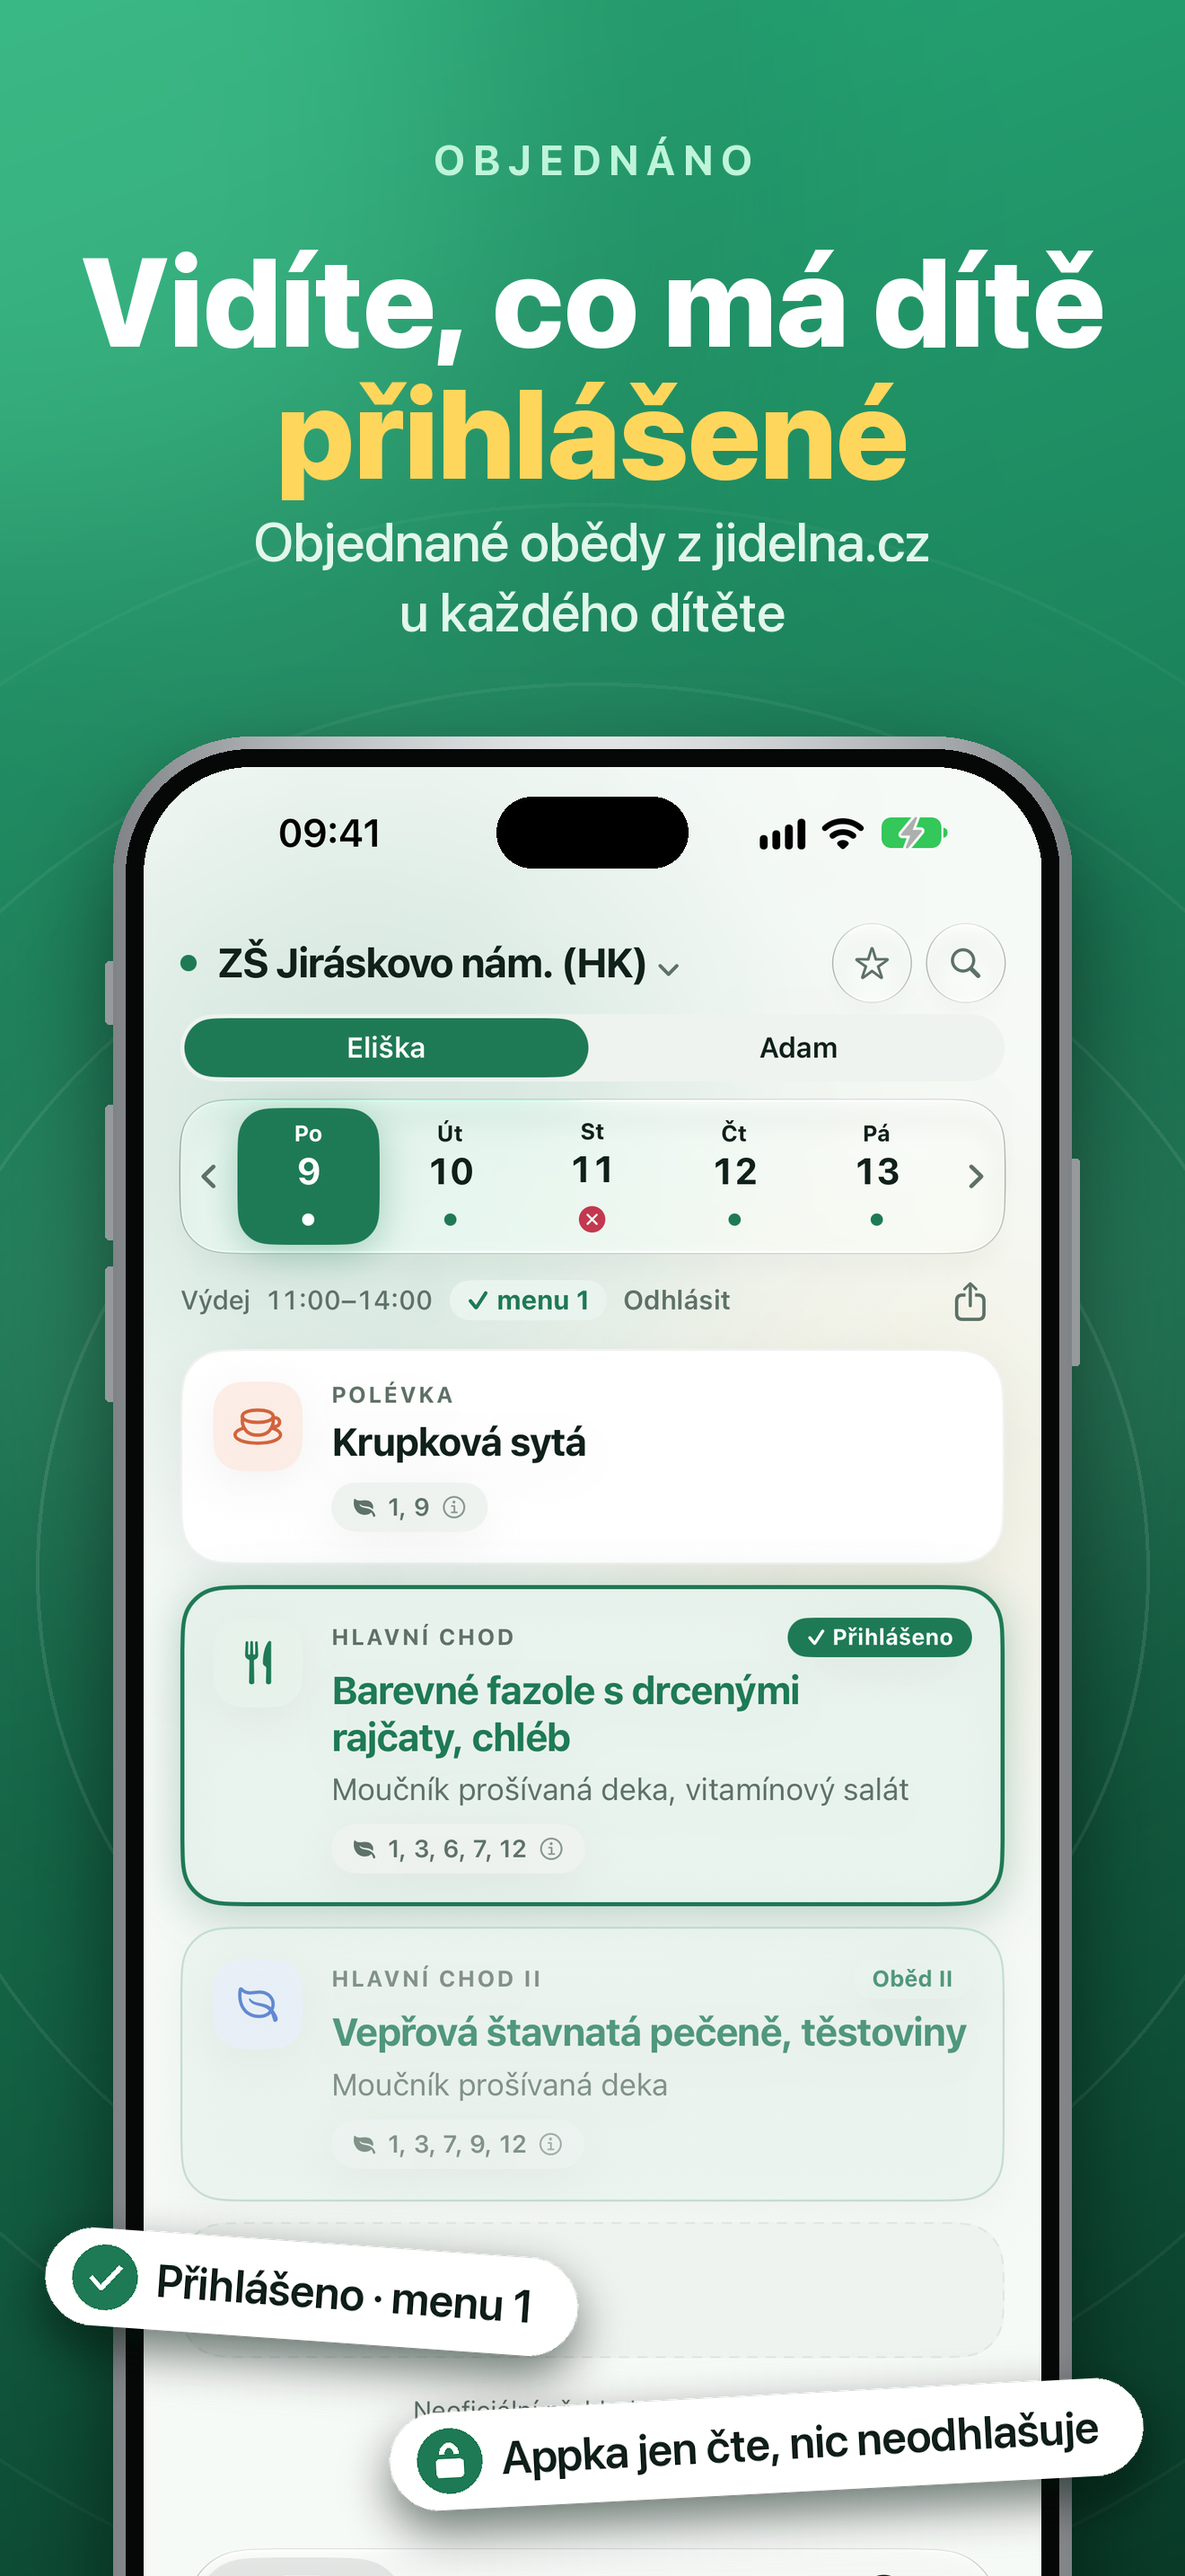
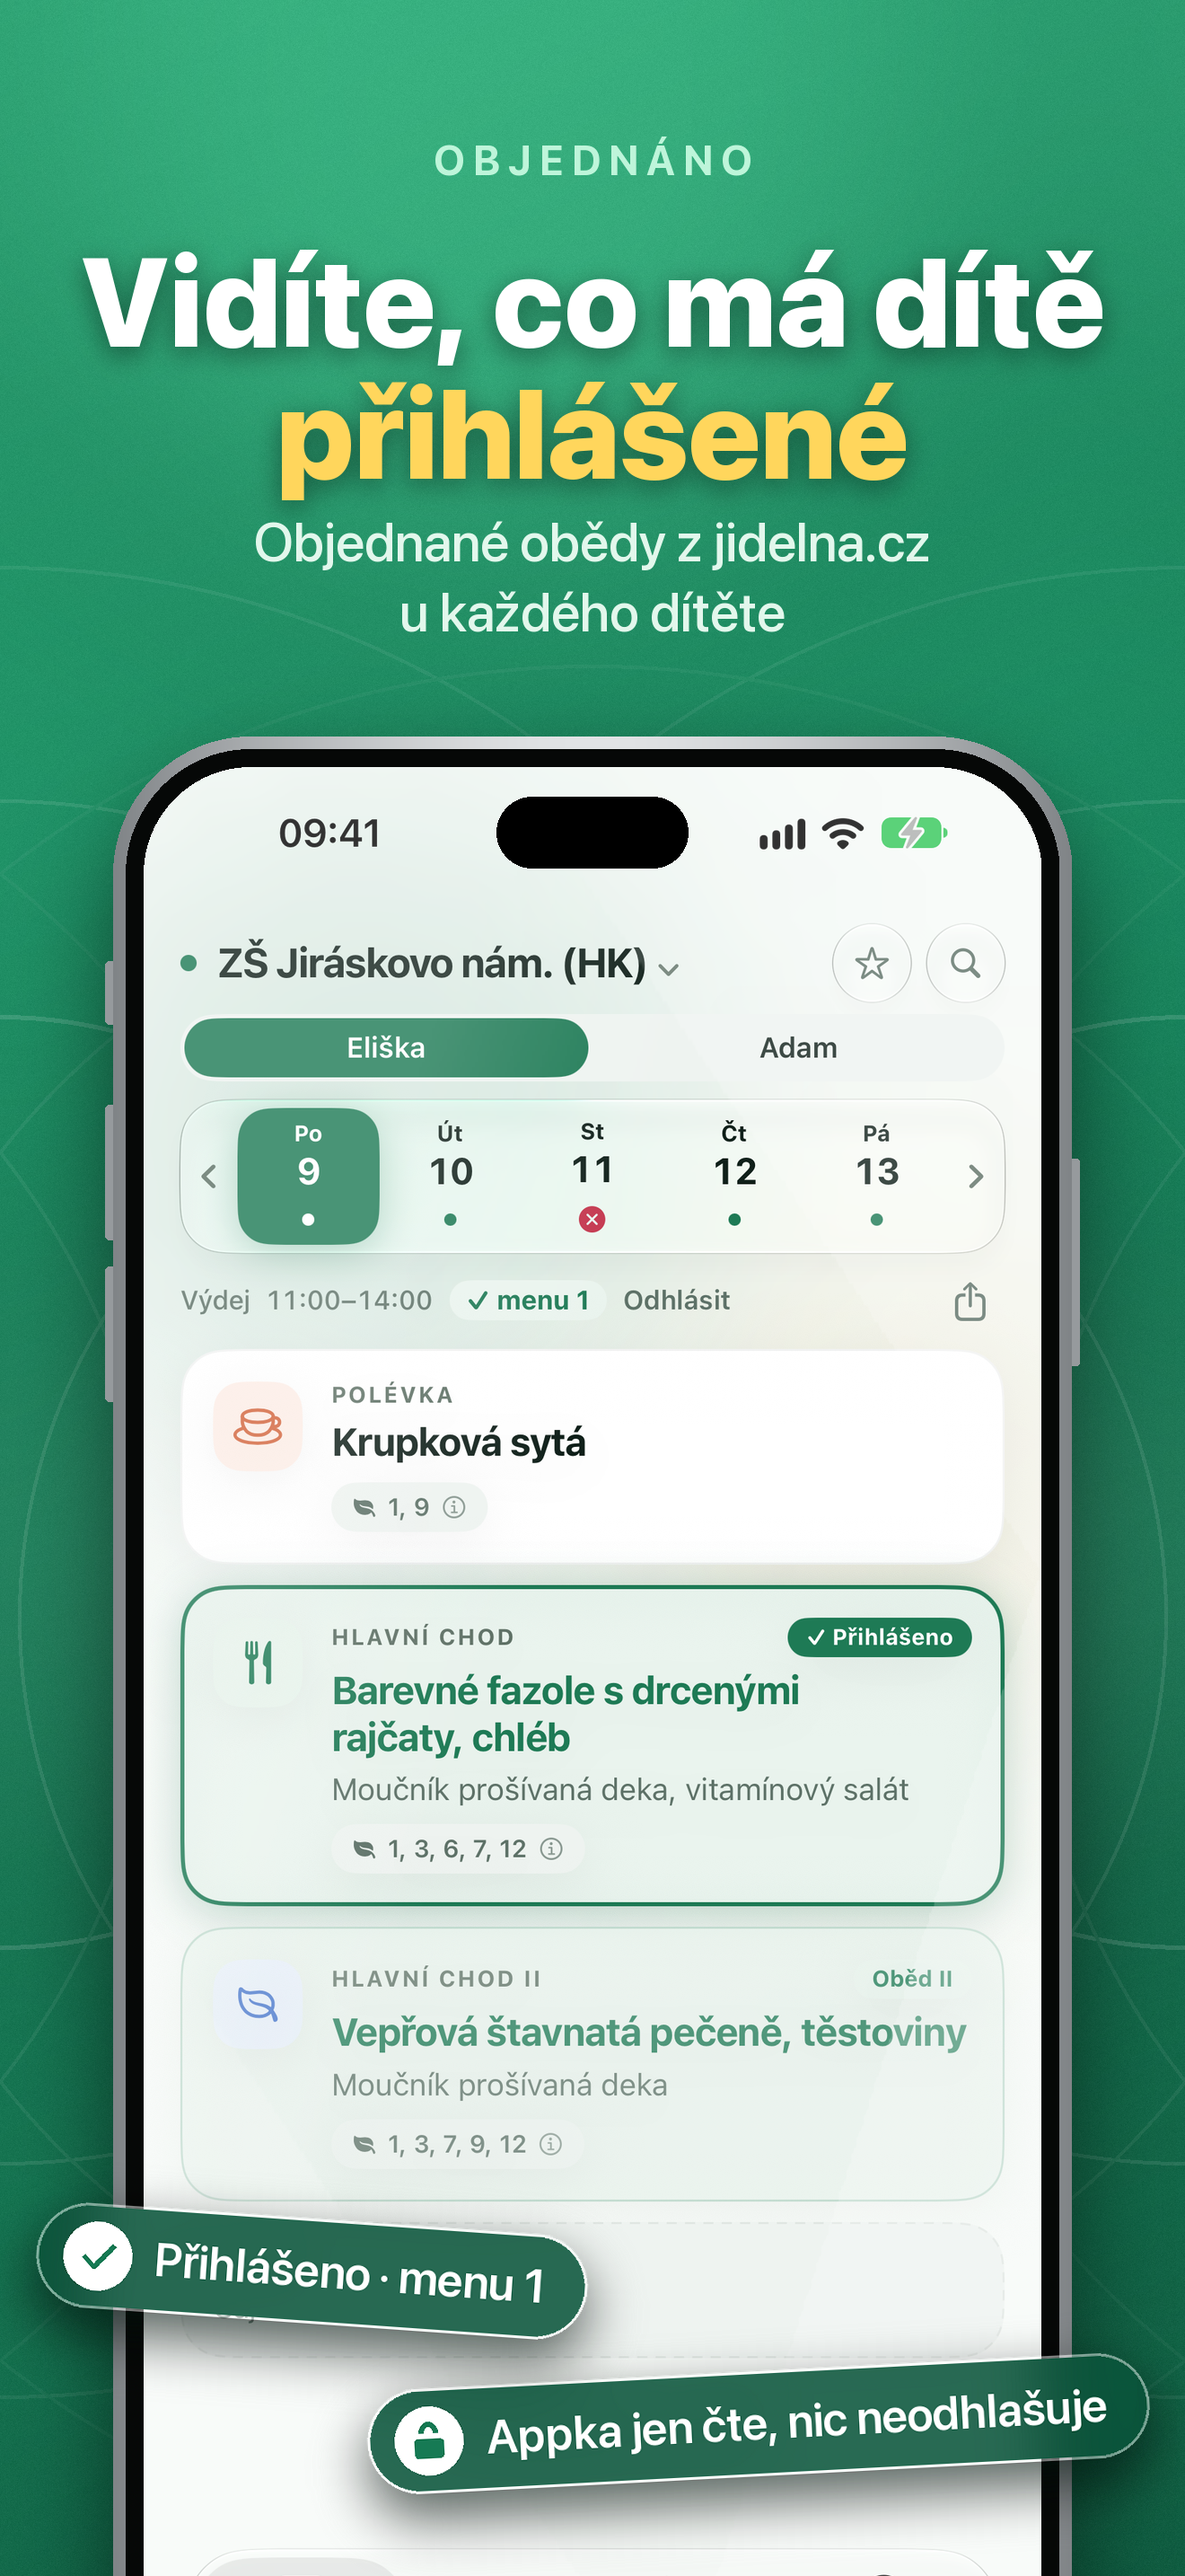
App Store screenshoty: souvislé panoramatické pozadí, skleněné bubliny, odlesk telefonu, stín nadpisu, zrno

diff --git a/tools/make-screenshots.py b/tools/make-screenshots.py
@@ -55,28 +55,54 @@ def rozmazat(im, boxy):
 
 # ── pozadí ─────────────────────────────────────────────────────────────
 
-def pozadi():
-    """Diagonální přechod + velká záře za telefonem + soustředné kruhy (odkaz na talíř z ikony)."""
+_PANO = None
+
+
+def panorama(n):
+    """Jedno souvislé pozadí přes všechny snímky: přechod, záře, kruhy přecházející z jednoho snímku do dalšího."""
     import numpy as np
-    a, b = np.array((38, 168, 118), float), np.array((9, 58, 40), float)
-    yy, xx = np.mgrid[0:H, 0:W]
-    t = (xx * 0.35 + yy * 0.94) / (W * 0.35 + H * 0.94)          # diagonála shora doleva → dolů
-    t = np.clip(t, 0, 1)[..., None] ** 1.15
-    zakl = Image.fromarray((a + (b - a) * t).astype("uint8"), "RGB").convert("RGBA")
-    vrstva = Image.new("RGBA", (W, H), (0, 0, 0, 0))
-    d = ImageDraw.Draw(vrstva)
-    # záře
-    d.ellipse((60, 880, 1260, 2080), fill=(170, 255, 214, 95))
-    d.ellipse((-420, -260, 700, 760), fill=(120, 235, 180, 60))
-    vrstva = vrstva.filter(ImageFilter.GaussianBlur(190))
-    zakl = Image.alpha_composite(zakl, vrstva)
-    # kruhy
-    kruhy = Image.new("RGBA", (W, H), (0, 0, 0, 0))
-    d = ImageDraw.Draw(kruhy)
-    cx, cy = W // 2, 1750
-    for r, al in ((620, 26), (800, 20), (990, 14), (1190, 9)):
-        d.ellipse((cx - r, cy - r, cx + r, cy + r), outline=(255, 255, 255, al), width=4)
-    return Image.alpha_composite(zakl, kruhy)
+    pw = W * n
+    yy, xx = np.mgrid[0:H, 0:pw].astype("float32")
+    t = np.clip(0.55 * (xx / pw) + 0.45 * (yy / H), 0, 1)
+    stops = [(0.0, (52, 184, 130)), (0.45, (26, 134, 94)), (1.0, (7, 52, 37))]
+    out = np.zeros((H, pw, 3), "float32")
+    for (t0, c0), (t1, c1) in zip(stops, stops[1:]):
+        m = (t >= t0) & (t <= t1)
+        k = ((t - t0) / (t1 - t0))[..., None]
+        seg = np.array(c0, "float32") + (np.array(c1, "float32") - np.array(c0, "float32")) * k
+        out = np.where(m[..., None], seg, out)
+    base = Image.fromarray(out.clip(0, 255).astype("uint8"), "RGB").convert("RGBA")
+    glow = Image.new("RGBA", (pw, H), (0, 0, 0, 0))
+    d = ImageDraw.Draw(glow)
+    for i in range(n):
+        cx = i * W + W // 2
+        d.ellipse((cx - 560, 1180, cx + 560, 2300), fill=(180, 255, 220, 90))      # záře za telefonem
+        d.ellipse((cx - 700, -420, cx + 500, 700), fill=(120, 240, 185, 55))        # záře za nadpisem
+    glow = glow.filter(ImageFilter.GaussianBlur(170))
+    base = Image.alpha_composite(base, glow)
+    ring = Image.new("RGBA", (pw, H), (0, 0, 0, 0))
+    d = ImageDraw.Draw(ring)
+    for i in range(1, n):                       # velké kruhy přes hrany – spojují sousední snímky
+        cx = i * W
+        for r, al, wd in ((520, 34, 5), (760, 24, 4), (1020, 16, 4)):
+            d.ellipse((cx - r, 1650 - r, cx + r, 1650 + r), outline=(255, 255, 255, al), width=wd)
+    for i in range(n):                           # kruhy „talíře“ za každým telefonem
+        cx = i * W + W // 2
+        for r, al in ((640, 24), (840, 16), (1060, 10)):
+            d.ellipse((cx - r, 1800 - r, cx + r, 1800 + r), outline=(255, 255, 255, al), width=4)
+    base = Image.alpha_composite(base, ring)
+    # jemné zrno proti pruhování přechodů
+    rng = np.random.default_rng(7)
+    zrno = rng.normal(0, 2.2, (H, pw, 1)).astype("float32")
+    arr = np.asarray(base.convert("RGB"), "float32") + zrno
+    return Image.fromarray(arr.clip(0, 255).astype("uint8"), "RGB").convert("RGBA")
+
+
+def pozadi(i, n):
+    global _PANO
+    if _PANO is None:
+        _PANO = panorama(n)
+    return _PANO.crop((i * W, 0, (i + 1) * W, H))
 
 
 # ── text ──────────────────────────────────────────────────────────────
@@ -95,7 +121,7 @@ def kresli(d, x, y, txt, f, fill, track=0):
     return x
 
 
-def nadpis_radek(d, y, radek, f):
+def nadpis_radek(d, y, radek, f, stin=False):
     """Řádek s {zvýrazněním}: bílý text + žluté slovo, vystředěno."""
     casti, i = [], 0
     while i < len(radek):
@@ -108,14 +134,13 @@ def nadpis_radek(d, y, radek, f):
     celkem = sum(d.textlength(t, font=f) for t, _ in casti)
     x = (W - celkem) / 2
     for t, c in casti:
-        x = kresli(d, x, y, t, f, c + (255,))
+        x = kresli(d, x, y, t, f, (0, 24, 14, 120) if stin else c + (255,))
 
 
 # ── bubliny ───────────────────────────────────────────────────────────
 
-def ikona(d, kind, cx, cy, r, barva):
-    d.ellipse((cx - r, cy - r, cx + r, cy + r), fill=barva)
-    b = (255, 255, 255, 255)
+def ikona(d, kind, cx, cy, r, kruh, b):
+    d.ellipse((cx - r, cy - r, cx + r, cy + r), fill=kruh)
     lw = max(r // 6, 4)
     if kind == "ok":
         d.line([(cx - r * .42, cy + r * .02), (cx - r * .1, cy + r * .34), (cx + r * .48, cy - r * .34)], fill=b, width=lw, joint="curve")
@@ -144,22 +169,29 @@ def ikona(d, kind, cx, cy, r, barva):
         d.pieslice((cx - r * .5, cy - r * .5, cx + r * .5, cy + r * .5), 20, 200, fill=b)
 
 
-def bublina(text, kind, uhel):
-    f = pismo(50, "Semibold")
+def bublina(text, kind, uhel, pozadi_pod=None):
+    """Bublina z tmavě zeleného mléčného skla; pozadi_pod = výřez obrazu pod ní (rozostří se)."""
+    f = pismo(52, "Semibold")
     dm = ImageDraw.Draw(Image.new("RGBA", (10, 10)))
     tw = dm.textlength(text, font=f)
-    r = 36
-    w, h = int(tw + 2 * 38 + 2 * r + 24), 108
-    pad = 90
+    r = 38
+    w, h = int(tw + 2 * 40 + 2 * r + 22), 116
+    pad = 100
     im = Image.new("RGBA", (w + 2 * pad, h + 2 * pad), (0, 0, 0, 0))
     stin = Image.new("RGBA", im.size, (0, 0, 0, 0))
-    ImageDraw.Draw(stin).rounded_rectangle((pad, pad + 22, pad + w, pad + h + 22), h // 2, fill=(0, 30, 18, 150))
-    im = Image.alpha_composite(im, stin.filter(ImageFilter.GaussianBlur(26)))
+    ImageDraw.Draw(stin).rounded_rectangle((pad, pad + 26, pad + w, pad + h + 26), h // 2, fill=(0, 22, 14, 170))
+    im = Image.alpha_composite(im, stin.filter(ImageFilter.GaussianBlur(30)))
+    maska = Image.new("L", im.size, 0)
+    ImageDraw.Draw(maska).rounded_rectangle((pad, pad, pad + w, pad + h), h // 2, fill=255)
+    if pozadi_pod is not None:
+        rozost = pozadi_pod.filter(ImageFilter.GaussianBlur(30)).convert("RGBA")
+        im.paste(rozost, (0, 0), maska)
+    sklo = Image.new("RGBA", im.size, (9, 84, 58, 222))
+    im.paste(Image.alpha_composite(im, sklo), (0, 0), maska)
     d = ImageDraw.Draw(im)
-    d.rounded_rectangle((pad, pad, pad + w, pad + h), h // 2, fill=(255, 255, 255, 255))
-    barva = (222, 64, 88, 255) if kind == "vykricnik" else (30, 122, 85, 255)
-    ikona(d, kind, pad + 30 + r, pad + h // 2, r, barva)
-    d.text((pad + 30 + 2 * r + 22, pad + h // 2 - 31), text, font=f, fill=(16, 32, 26, 255))
+    d.rounded_rectangle((pad, pad, pad + w, pad + h), h // 2, outline=(255, 255, 255, 120), width=3)
+    ikona(d, kind, pad + 30 + r, pad + h // 2, r, (255, 255, 255, 255), (222, 64, 88, 255) if kind == "vykricnik" else (22, 122, 84, 255))
+    d.text((pad + 34 + 2 * r + 22, pad + h // 2 - 33), text, font=f, fill=(255, 255, 255, 255))
     return im.rotate(uhel, resample=Image.BICUBIC, expand=True)
 
 
@@ -202,6 +234,10 @@ def iphone(shot, sw):
     ImageDraw.Draw(m).rounded_rectangle((0, 0, sw, sh), obrazovka_r, fill=255)
     scr = shot.convert("RGBA"); scr.putalpha(m)
     pl.alpha_composite(scr, (ox + ob, ob))
+    # jemný diagonální odlesk skla
+    og = Image.linear_gradient("L").rotate(55, expand=True).resize((sw, sh)).point(lambda v: int(max(0, 90 - v) * 0.55))
+    odlesk = Image.new("RGBA", (sw, sh), (255, 255, 255, 0)); odlesk.putalpha(ImageChops.multiply(og, m))
+    pl.alpha_composite(odlesk, (ox + ob, ob))
     iw, ih = round(290 * sw / 1320 * 0.97), round(107 * sw / 1320 * 0.97)
     ix, iy = ox + ob + (sw - iw) // 2, ob + round(43 * sw / 1320)
     ImageDraw.Draw(pl).rounded_rectangle((ix, iy, ix + iw, iy + ih), ih // 2, fill=(0, 0, 0, 255))
@@ -225,8 +261,8 @@ def logo_hlavicka(pl):
     d.text((x + 168 + 28, 120 + 168 / 2 - 36), nazev, font=f, fill=(255, 255, 255, 255))
 
 
-def slide(jmeno, eyebrow, nadpis, podnadpis, bubliny):
-    pl = pozadi()
+def slide(idx, n, jmeno, eyebrow, nadpis, podnadpis, bubliny):
+    pl = pozadi(idx, n)
     d = ImageDraw.Draw(pl)
     if jmeno == "1-den":
         logo_hlavicka(pl); y = 360
@@ -240,6 +276,13 @@ def slide(jmeno, eyebrow, nadpis, podnadpis, bubliny):
     while max(d.textlength(r, font=pismo(vel, "Heavy")) for r in plain) > W - 150:
         vel -= 4
     fn = pismo(vel, "Heavy")
+    stin_t = Image.new("RGBA", pl.size, (0, 0, 0, 0))
+    ys = y
+    for radek in nadpis.split("\n"):
+        nadpis_radek(ImageDraw.Draw(stin_t), ys + 8, radek, fn, stin=True)
+        ys += round(vel * 1.05)
+    pl = Image.alpha_composite(pl, stin_t.filter(ImageFilter.GaussianBlur(14)))
+    d = ImageDraw.Draw(pl)
     for radek in nadpis.split("\n"):
         nadpis_radek(d, y, radek, fn)
         y += round(vel * 1.05)
@@ -258,12 +301,18 @@ def slide(jmeno, eyebrow, nadpis, podnadpis, bubliny):
     pl = Image.alpha_composite(pl, stin.filter(ImageFilter.GaussianBlur(56)))
     pl.alpha_composite(tel, (x, y0))
     for txt, kind, bx, by, uhel in bubliny:
-        b = bublina(txt, kind, uhel)
-        px = bx - 90 if bx >= 0 else W + bx + 90 - b.size[0]
-        pl.alpha_composite(b, (px, by - 90))
+        probe = bublina(txt, kind, 0)
+        pw_, ph_ = probe.size
+        px = bx - 100 if bx >= 0 else W + bx + 100 - pw_
+        py = by - 100
+        pod = pl.crop((max(px, 0), py, max(px, 0) + pw_, py + ph_)).convert("RGBA")
+        if pod.size != (pw_, ph_):
+            pod = pod.resize((pw_, ph_))
+        b = bublina(txt, kind, uhel, pod)
+        pl.alpha_composite(b, (px - (b.size[0] - pw_) // 2, py - (b.size[1] - ph_) // 2))
     pl.convert("RGB").save(OUT / f"{jmeno}.png", optimize=True)
 
 
 if __name__ == "__main__":
-    for s in SLIDY:
-        slide(*s); print("hotovo", s[0])
+    for i, sl in enumerate(SLIDY):
+        slide(i, len(SLIDY), *sl); print("hotovo", sl[0])
